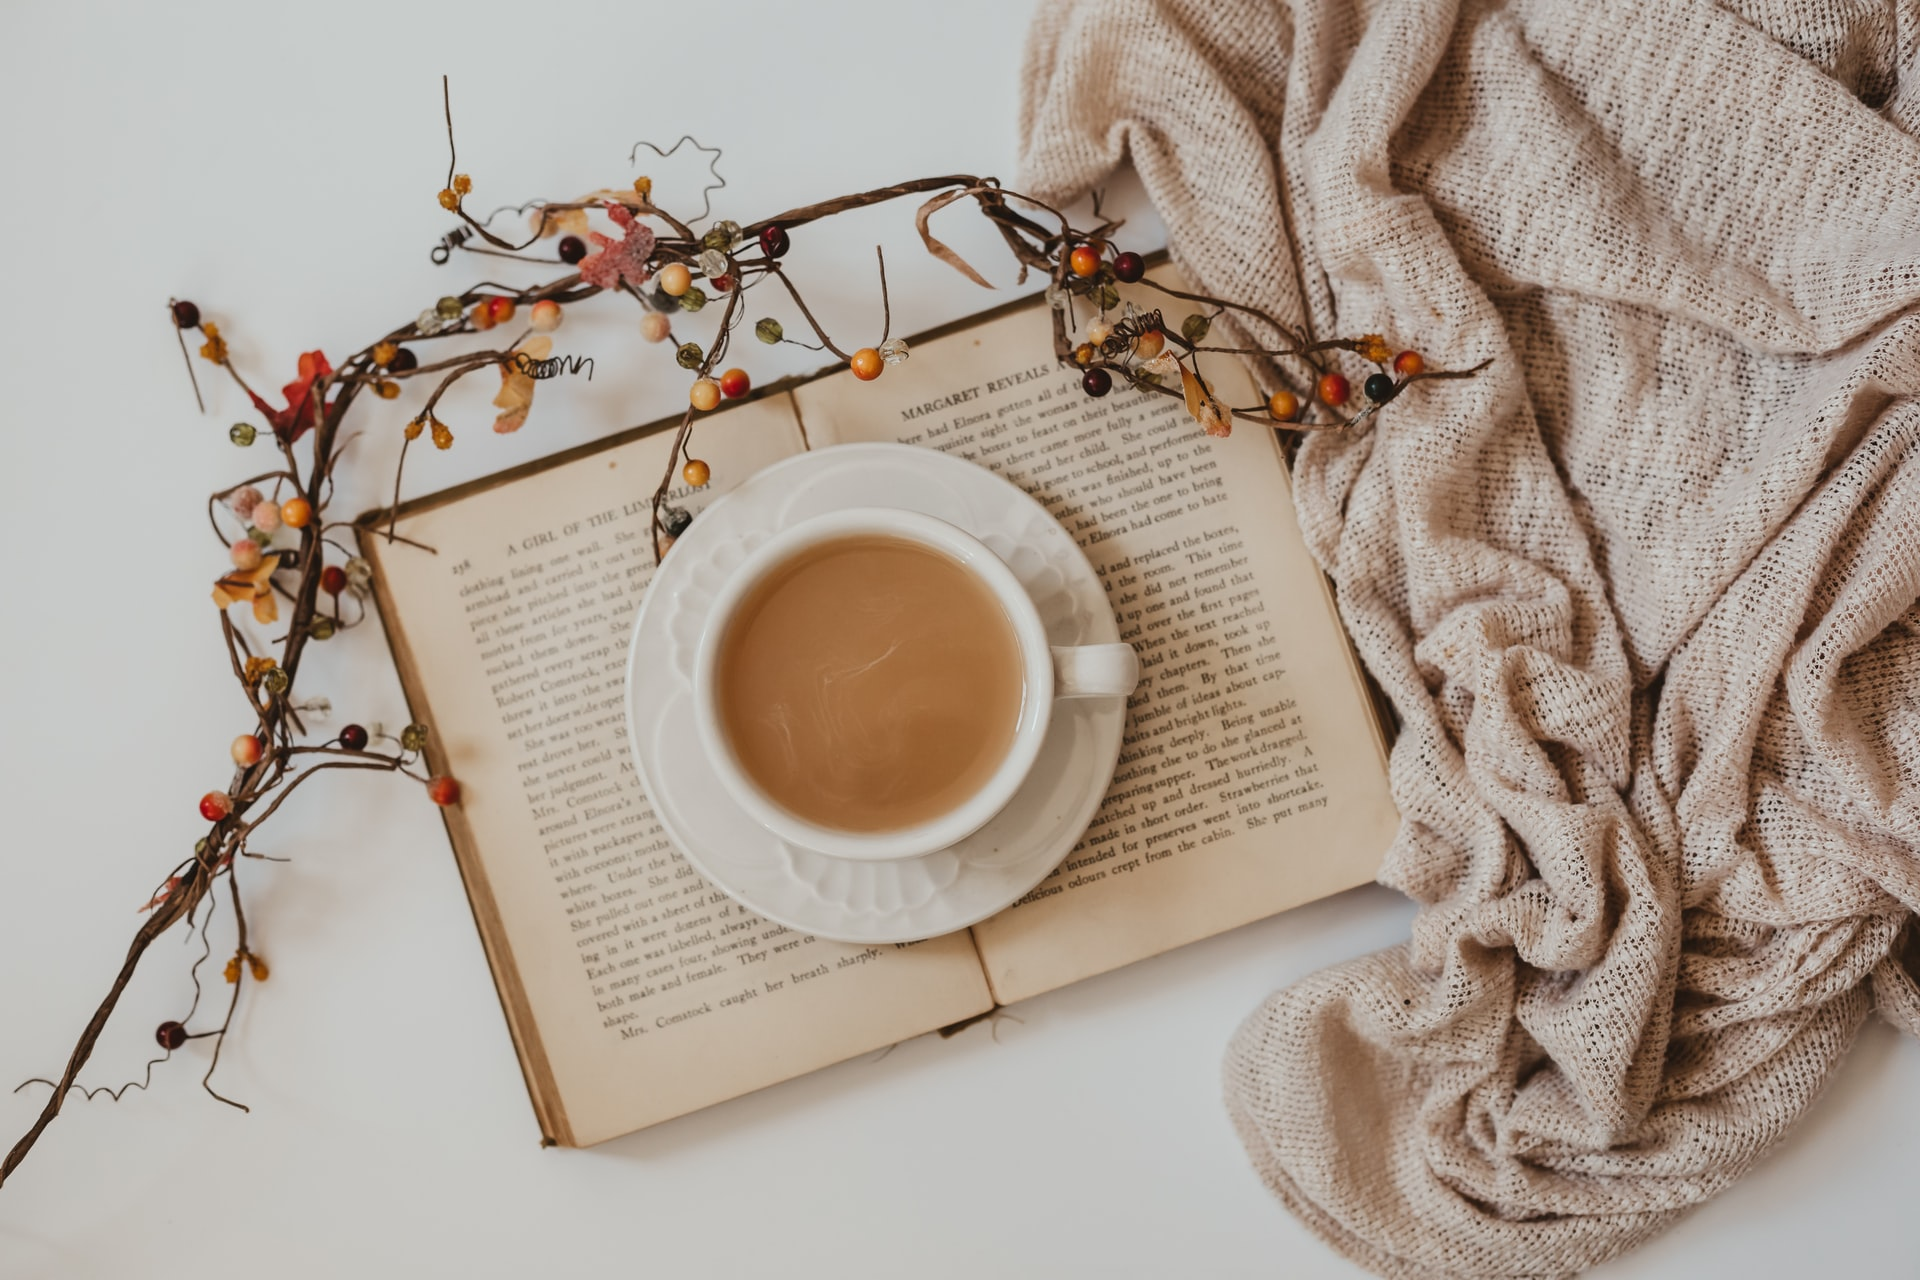
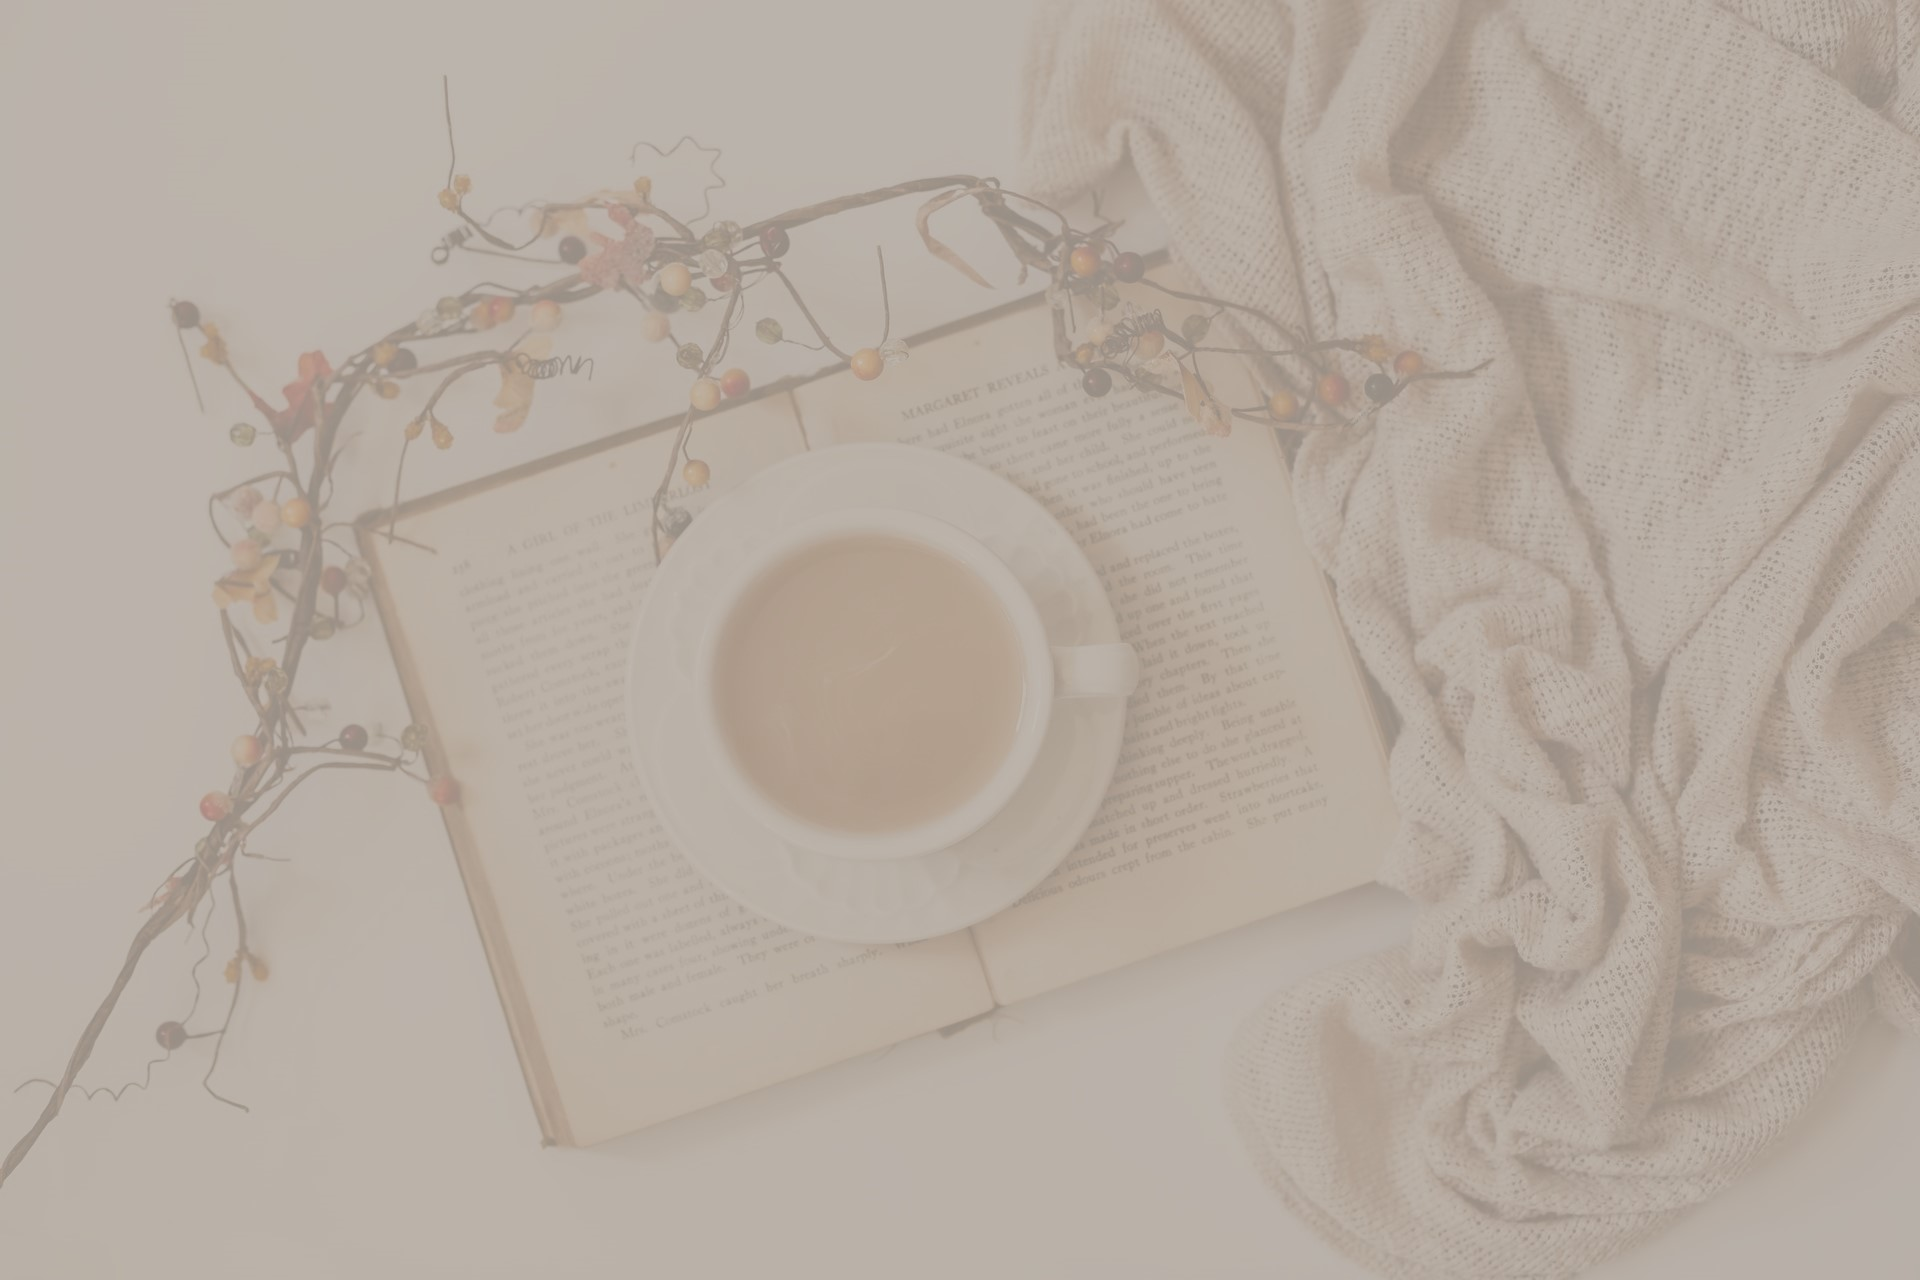
Eliminacion de div con background para efecto de transparencia, usado solo en foto y fixed la transparencia de datos en los elementos de la tienda y informacion de bienvenida

diff --git a/index.html b/index.html
@@ -89,7 +89,7 @@
         </nav>
         <div>
             <div id="fondo-1">
-                <div id="cont" class="text-center" style="height: 1000px;">
+                <div class="text-center" style="width: 100%; height: auto;">
                     <h1>KAROMA HOME</h1>
                     <h2> Excelente calidad y precios accesibles </h2>
                     <a class="btn btn-outline-dark btn-lg" id="r-more" href="#div-2">Leer más</a>
@@ -100,48 +100,49 @@
                 <div class="container">
                     <div class="row">
                         <div>
-                            <h3 class="p-4">Más informacion de mí</h3>
-
+                            <h4 class="p-4">Bievenidos a Karoma Home</h4>
                             <hr>
                         </div>
-                        <div class="col-md-4"></div>
-                        <div class="col-md-4">
-                            <p>Lorem ipsum dolor sit, amet consectetur adipisicing elit. Adipisci id molestiae suscipit
-                                magni
-                                omnis numquam ullam, nobis repellendus laudantium voluptatum, aspernatur enim. Aperiam
-                                vel
-                                libero excepturi vitae illum quasi ullam. Lorem ipsum dolor sit amet consectetur
-                                adipisicing
-                                elit. Ad itaque laudantium debitis rem dolorem incidunt nesciunt. Temporibus vero
-                                doloribus
-                                iste, exercitationem excepturi eaque soluta amet nisi voluptate quod? Quae, temporibus!
-                            </p>
+                        <div class="col-md-12">
+                            <h2 class="fw-bold">Comprá online y recibilo en tu casa</h2>
                         </div>
-                        <div class="col-md-4"></div>
-                    </div>
-                    <div class="row p-2">
-                        <div class="col-md-4"></div>
-                        <div class="col-lg-4 card text-center">
-                            <div class="card-header">Featured</div>
-                            <div class="card-body">
-                                <h5 class="card-title">Special title treatment</h5>
-                                <p class="card-text">With supporting text below as a natural lead-in to additional
-                                    content.
-                                </p>
-                                <a href="#" class="btn btn-primary">Go somewhere</a>
+                        <div class="row p-4">
+                            <div class="col-md-12">
+                                <h4>
+                                    En <b>Karoma Home</b> estamos comprometidos con la calidad de los productos y servicios que brindamos, además de liderar en nuestra área.
+                                </h4>
                             </div>
-                            <div class="card-footer text-muted">2 days ago</div>
                         </div>
-                        <div class="col-md-4"></div>
                     </div>
-                </div>
-            </div>
+                    <div class="row p-5">
+                        <div class="col-lg-4">
+                            <i class="fas fa-hand-holding-heart fa-4x"></i>
+                            <div class="fw-bold fs-3">Velas & escencias</div>
+                            <p>{{velasyescencia}}</p>
+                        </div>
+                        <div class="col-lg-4">
+                            <i class="fas fa-spray-can fa-4x"></i> 
+                            <div class="fw-bold fs-3">Home Spray</div>
+                            <p>{{homespray}}</p>
+                        </div>
+                        <div class="col-lg-4">
+                            <i class="fas fa-bath fa-4x"></i> 
+                            <div class="fw-bold fs-3">Jabones & sales de baño</div>
+                            <p>{{salesbanio}}</p>
+                        </div>
 
-            <div id="fondo-2">
-                <div id="cont" class="">
-                    <div class="row d-flex justify-content-between p-5">
+                    </div> <!-- row p-2 donde esta la carta -->
+                </div> <!-- container -->
+            </div> <!-- d-flex justify-content-center text-center #div-2 -->
+
+            <div class="base-2">
+                <div id="fondo-2">
+                    <div id="cont"><!--Div que da el fondo-->
+                    </div>
+                    
+                    <div class="row d-flex justify-content-between p-5 ">
                         <div class="col-lg-4" ng-repeat="card in cards">
-                            <div class="card w-75">                             
+                            <div class="card w-75 m-3">                             
                                 <img src={{dir+card.file}} height="650" class="card-img-top" alt="Cargando..." />
                                 <div class="card-body">
                                     <h5 class="card-title">{{card.title}}</h5>
@@ -151,8 +152,9 @@
                             </div>
                         </div>
                     </div> <!-- row container-sm p-5 -->
-                </div> <!-- #cont .text-center -->
-            </div> <!-- #fondo-2 -->
+                </div> <!-- #fondo-2 -->
+            </div>
+
         </div>
 
         <!-- Footer -->

diff --git a/index.css b/index.css
@@ -1,7 +1,7 @@
 *{
     margin:0px;
     padding: 0px;
-    
+    overflow-x: hidden;
 }
 body{
     font-family: 'Bodoni';
@@ -9,12 +9,16 @@ body{
 }
 
 /******** ETIQUETAS ********/
-#cont h1{
+#fondo-1 div h1{
     text-shadow: 0 0 5px black;
     text-align: center;
     font-size:800%;
     color: white;
     padding-top: 18%;
+}
+
+#fondo-1 div h2{
+    font-size: 250%;
 }
 
 footer{
@@ -36,7 +40,6 @@ hr{
 }
 
 
-
 /********  DIV ********/
 
 #fondo-1{
@@ -47,26 +50,15 @@ hr{
     height:1000px;
 }
 
-#fondo-1 .cont{
-    height: 1000px;
-}
-
 #fondo-2{
     background-image: url("assets/img/camara.jpg");
     background-repeat: no-repeat;
     background-size: 100%;
     background-attachment: fixed;
 }
-
-#cont{
-    width: 100%;
-    height: auto;
-    background-color: #B8AEA4; 
-    opacity: 0.8;
-}
  
  #div-2{
-     background-color: #DADADA;
+     background-color: #f3f3f3;
  }
 
 

diff --git a/app.controller.js b/app.controller.js
@@ -38,4 +38,7 @@ function mainController ($scope) {
 
     ];
 
+    $scope.velasyescencia = 'El proceso de selección de una pieza contenedora y su perfumees único, cada vela es vertida a mano. Con materias primas de excelente calidad';
+    $scope.homespray = 'Aromatizador de ambiente/textil, esta formulado con un alto porcentaje de fragancia de perfumeria fina, que te va a asegurar un aroma intenso y duradero.';
+    $scope.salesbanio = 'Proceso de sales de baño';
 }
